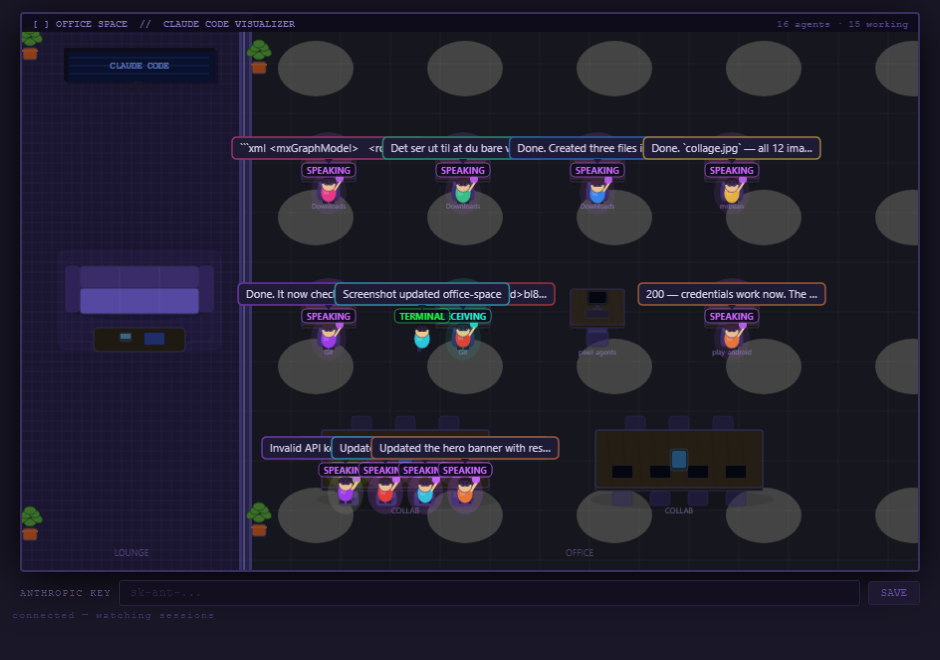
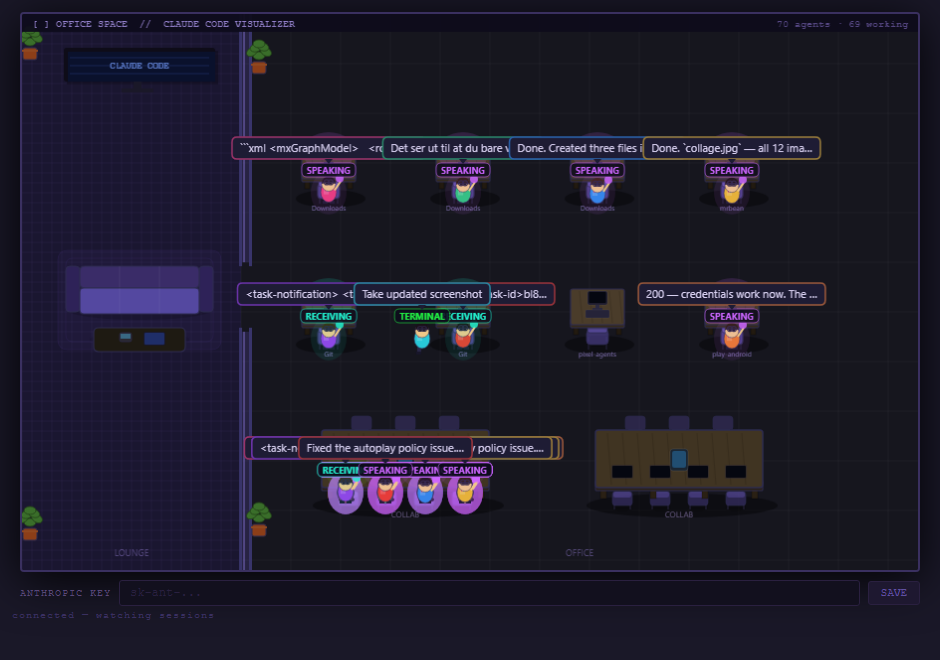
Improve furniture contrast, add legs/shadows, add partition door
- Remove ceiling light halo circles from floor
- Brighter desk/chair/table palette for dark mode contrast
- Proper desk legs with shadows under desk+chair
- Group table with 4 visible legs and chair legs
- Door opening in glass partition at agent crossing point

diff --git a/index.html b/index.html
@@ -62,18 +62,18 @@ ctx.scale(DPR, DPR);
 const CARPET     = '#1a1630';
 const TILE       = '#16161e';
 const PARTITION  = '#38346a';
-const DESK_TOP   = '#28221a';
-const DESK_FACE  = '#1c1810';
-const DESK_LEG   = '#141210';
-const CHAIR_C    = '#32286a';
-const CHAIR_SEAT = '#443880';
+const DESK_TOP   = '#4a3c2a';
+const DESK_FACE  = '#342a1c';
+const DESK_LEG   = '#221a10';
+const CHAIR_C    = '#4a3e88';
+const CHAIR_SEAT = '#6050a8';
 const COUCH_BACK = '#3a2c68';
 const COUCH_SEAT = '#5448a0';
 const COUCH_ARM  = '#2e2258';
 const TV_FRAME   = '#0e0c18';
 const TV_SCR     = '#050710';
-const TBL_TOP    = '#241e14';
-const TBL_FACE   = '#18140c';
+const TBL_TOP    = '#403422';
+const TBL_FACE   = '#2a2014';
 const POT_C      = '#8c3e18';
 const LEAF_G     = '#3a6e2a';
 const LEAF_DK    = '#224018';
@@ -230,21 +230,24 @@ function drawBackground() {
   for (let x=LOUNGE_W; x<W; x+=50) { ctx.beginPath(); ctx.moveTo(x,0); ctx.lineTo(x,H); ctx.stroke(); }
   for (let y=0; y<H; y+=50) { ctx.beginPath(); ctx.moveTo(LOUNGE_W,y); ctx.lineTo(W,y); ctx.stroke(); }
 
-  // Ceiling light halos
-  ctx.fillStyle = 'rgba(255,255,220,0.2)';
-  for (let lx=LOUNGE_W+75; lx<W; lx+=150)
-    for (let ly=55; ly<H; ly+=150) {
-      ctx.beginPath(); ctx.ellipse(lx, ly, 38, 28, 0, 0, Math.PI*2); ctx.fill();
-    }
-
-  // Glass partition
-  ctx.fillStyle = 'rgba(100,80,200,0.22)';
-  ctx.fillRect(LOUNGE_W, 0, 8, H);
-  ctx.fillStyle = 'rgba(160,140,255,0.35)';
-  ctx.fillRect(LOUNGE_W+2, 0, 2, H);
+  // Glass partition with door opening at y=250–320
+  const DOOR_Y=250, DOOR_H=70;
+  // Glass panels (above and below door)
+  [[0, DOOR_Y], [DOOR_Y+DOOR_H, H-(DOOR_Y+DOOR_H)]].forEach(([y, h]) => {
+    ctx.fillStyle = 'rgba(100,80,200,0.22)';
+    ctx.fillRect(LOUNGE_W, y, 8, h);
+    ctx.fillStyle = 'rgba(160,140,255,0.35)';
+    ctx.fillRect(LOUNGE_W+2, y, 2, h);
+    ctx.fillStyle = PARTITION;
+    ctx.fillRect(LOUNGE_W-2, y, 3, h);
+    ctx.fillRect(LOUNGE_W+8, y, 3, h);
+  });
+  // Door frame posts
   ctx.fillStyle = PARTITION;
-  ctx.fillRect(LOUNGE_W-2, 0, 3, H);
-  ctx.fillRect(LOUNGE_W+8, 0, 3, H);
+  ctx.fillRect(LOUNGE_W-2, DOOR_Y-4, 3, 8);
+  ctx.fillRect(LOUNGE_W+8, DOOR_Y-4, 3, 8);
+  ctx.fillRect(LOUNGE_W-2, DOOR_Y+DOOR_H-4, 3, 8);
+  ctx.fillRect(LOUNGE_W+8, DOOR_Y+DOOR_H-4, 3, 8);
 
   // TV on lounge wall — wide, same width as sofa
   const TVX=42, TVY=34, TVW=148, TVH=30;
@@ -345,29 +348,50 @@ function drawDesk(slotIdx, agentsHere) {
   const aCol = agent ? (ACTION_COLORS[agent.action]||ACTION_COLORS.idle) : ACTION_COLORS.idle;
   const active = agent && agent.action !== 'idle' && agent.phase === 'working';
 
-  // Chair (drawn before desk so desk overlaps it slightly)
-  ctx.fillStyle = active ? CHAIR_C : hexRgba(CHAIR_C, 0.55);
-  rr(cx-11, cy+DH/2+6, 22, 16, 4); ctx.fill();
-  ctx.strokeStyle=OUTLINE; ctx.lineWidth=active?1:0.7; rr(cx-11, cy+DH/2+6, 22, 16, 4); ctx.stroke();
-  ctx.fillStyle = active ? CHAIR_SEAT : hexRgba(CHAIR_SEAT,0.55);
-  rr(cx-10, cy+DH/2+2, 20, 6, 2); ctx.fill();
-  ctx.strokeStyle=OUTLINE; ctx.lineWidth=0.8; rr(cx-10, cy+DH/2+2, 20, 6, 2); ctx.stroke();
+  // Desk + chair shadow
+  ctx.fillStyle = 'rgba(0,0,0,0.38)';
+  ctx.beginPath(); ctx.ellipse(cx+2, cy+DH/2+20, DW/2+8, 9, 0, 0, Math.PI*2); ctx.fill();
 
-  // Desk legs
+  // Chair shadow
+  ctx.fillStyle = 'rgba(0,0,0,0.22)';
+  ctx.beginPath(); ctx.ellipse(cx, cy+DH/2+18, 11, 4, 0, 0, Math.PI*2); ctx.fill();
+
+  // Chair legs (4 small pegs)
+  ctx.fillStyle = '#1a1828';
+  [[-9,12],[9,12],[-9,20],[9,20]].forEach(([ox,oy]) => {
+    ctx.fillRect(cx+ox-1, cy+DH/2+oy, 2, 5);
+  });
+
+  // Chair back
+  ctx.fillStyle = active ? CHAIR_C : hexRgba(CHAIR_C, 0.7);
+  rr(cx-11, cy+DH/2+5, 22, 15, 4); ctx.fill();
+  ctx.strokeStyle=OUTLINE; ctx.lineWidth=active?1.2:0.8; rr(cx-11, cy+DH/2+5, 22, 15, 4); ctx.stroke();
+
+  // Chair seat (top strip, lighter)
+  ctx.fillStyle = active ? CHAIR_SEAT : hexRgba(CHAIR_SEAT, 0.7);
+  rr(cx-10, cy+DH/2+1, 20, 7, 2); ctx.fill();
+  ctx.strokeStyle=OUTLINE; ctx.lineWidth=0.8; rr(cx-10, cy+DH/2+1, 20, 7, 2); ctx.stroke();
+
+  // Desk legs (two front legs, visible below face)
+  const legW=5, legH=11;
   ctx.fillStyle = DESK_LEG;
-  ctx.fillRect(cx-DW/2+2, cy+DH/2-2, 4, 8);
-  ctx.fillRect(cx+DW/2-6, cy+DH/2-2, 4, 8);
+  ctx.fillRect(cx-DW/2+3,  cy+DH/2-1, legW, legH);
+  ctx.fillRect(cx+DW/2-8,  cy+DH/2-1, legW, legH);
+  ctx.strokeStyle='rgba(0,0,0,0.5)'; ctx.lineWidth=0.5;
+  ctx.strokeRect(cx-DW/2+3,  cy+DH/2-1, legW, legH);
+  ctx.strokeRect(cx+DW/2-8,  cy+DH/2-1, legW, legH);
 
-  // Desk face
+  // Desk face (front panel, darker wood)
   ctx.fillStyle = DESK_FACE;
-  rr(cx-DW/2, cy+DH/2-5, DW, 8, 1); ctx.fill();
-  ctx.strokeStyle=OUTLINE; ctx.lineWidth=1; rr(cx-DW/2, cy+DH/2-5, DW, 8, 1); ctx.stroke();
+  rr(cx-DW/2, cy+DH/2-6, DW, 9, 1); ctx.fill();
+  ctx.strokeStyle=OUTLINE; ctx.lineWidth=1; rr(cx-DW/2, cy+DH/2-6, DW, 9, 1); ctx.stroke();
 
   // Desk top
   ctx.fillStyle = DESK_TOP;
   rr(cx-DW/2, cy-DH/2, DW, DH, 2); ctx.fill();
   ctx.strokeStyle=OUTLINE; ctx.lineWidth=1.2; rr(cx-DW/2, cy-DH/2, DW, DH, 2); ctx.stroke();
-  ctx.strokeStyle='rgba(0,0,0,0.05)'; ctx.lineWidth=1;
+  // Subtle wood grain
+  ctx.strokeStyle='rgba(0,0,0,0.12)'; ctx.lineWidth=1;
   for (let gx=cx-DW/2+9; gx<cx+DW/2-4; gx+=10) {
     ctx.beginPath(); ctx.moveTo(gx, cy-DH/2+2); ctx.lineTo(gx+3, cy+DH/2-2); ctx.stroke();
   }
@@ -376,7 +400,7 @@ function drawDesk(slotIdx, agentsHere) {
   const mw=20, mh=14;
   ctx.fillStyle='#1e1c2e';
   rr(cx-mw/2, cy-DH/2+2, mw, mh, 2); ctx.fill();
-  ctx.strokeStyle='rgba(0,0,0,0.35)'; ctx.lineWidth=0.8; rr(cx-mw/2, cy-DH/2+2, mw, mh, 2); ctx.stroke();
+  ctx.strokeStyle='rgba(255,255,255,0.08)'; ctx.lineWidth=0.8; rr(cx-mw/2, cy-DH/2+2, mw, mh, 2); ctx.stroke();
   ctx.fillStyle = active ? hexRgba(aCol,0.85) : TV_SCR;
   rr(cx-mw/2+1.5, cy-DH/2+3, mw-3, mh-3, 1); ctx.fill();
   if (active) {
@@ -388,15 +412,15 @@ function drawDesk(slotIdx, agentsHere) {
   ctx.fillRect(cx-5, cy-DH/2+mh+5, 10, 2);
 
   // Keyboard
-  ctx.fillStyle='#1e1c2e';
+  ctx.fillStyle='#252338';
   rr(cx-12, cy+3, 24, 8, 1); ctx.fill();
-  ctx.strokeStyle='rgba(255,255,255,0.08)'; ctx.lineWidth=0.5; rr(cx-12, cy+3, 24, 8, 1); ctx.stroke();
+  ctx.strokeStyle='rgba(255,255,255,0.1)'; ctx.lineWidth=0.5; rr(cx-12, cy+3, 24, 8, 1); ctx.stroke();
 
   // Name tag
   if (agent) {
     ctx.fillStyle='rgba(160,140,220,0.7)';
     ctx.font='7px "Segoe UI"'; ctx.textAlign='center';
-    ctx.fillText(agent.name.slice(0,12), cx, cy+DH/2+30);
+    ctx.fillText(agent.name.slice(0,12), cx, cy+DH/2+32);
   }
 }
 
@@ -407,40 +431,62 @@ function drawGroupTable(slotIdx, agentsHere) {
   const TW=168, TH=58;
   const chairXs = [cx-57, cx-19, cx+19, cx+57];
 
-  // Shadow
-  ctx.fillStyle='rgba(0,0,0,0.1)';
-  ctx.beginPath(); ctx.ellipse(cx+3, cy+TH/2+12, TW/2+8, 10, 0, 0, Math.PI*2); ctx.fill();
+  // Large shadow under whole assembly
+  ctx.fillStyle='rgba(0,0,0,0.4)';
+  ctx.beginPath(); ctx.ellipse(cx+3, cy+TH/2+18, TW/2+12, 12, 0, 0, Math.PI*2); ctx.fill();
 
-  // Chairs top row (empty)
+  // Chair shadows (bottom row)
+  ctx.fillStyle='rgba(0,0,0,0.2)';
+  for (const lx of chairXs) {
+    ctx.beginPath(); ctx.ellipse(lx, cy+TH/2+20, 10, 4, 0, 0, Math.PI*2); ctx.fill();
+  }
+
+  // Chairs top row (empty, faint)
   for (let i=0; i<3; i++) {
     const tx = cx-44+i*44;
-    ctx.fillStyle = hexRgba(CHAIR_C,0.32);
+    ctx.fillStyle = hexRgba(CHAIR_C, 0.4);
     rr(tx-10, cy-TH/2-14, 20, 14, 3); ctx.fill();
-    ctx.strokeStyle=OUTLINE; ctx.lineWidth=0.5; rr(tx-10, cy-TH/2-14, 20, 14, 3); ctx.stroke();
+    ctx.strokeStyle=OUTLINE; ctx.lineWidth=0.6; rr(tx-10, cy-TH/2-14, 20, 14, 3); ctx.stroke();
+    // Chair legs top row
+    ctx.fillStyle = '#1a1828';
+    [[-8,13],[8,13]].forEach(([ox,oy]) => ctx.fillRect(tx+ox-1, cy-TH/2-14+oy, 2, 5));
   }
 
-  // Chairs bottom row
+  // Chairs bottom row with legs
   for (let i=0; i<4; i++) {
+    const lx = chairXs[i];
     const occ = i < agentsHere.length;
-    ctx.fillStyle = occ ? CHAIR_C : hexRgba(CHAIR_C,0.38);
-    rr(chairXs[i]-10, cy+TH/2+4, 20, 14, 3); ctx.fill();
-    ctx.strokeStyle=OUTLINE; ctx.lineWidth=occ?1:0.6; rr(chairXs[i]-10, cy+TH/2+4, 20, 14, 3); ctx.stroke();
-    if (occ) {
-      ctx.fillStyle = CHAIR_SEAT;
-      rr(chairXs[i]-9, cy+TH/2+4, 18, 6, 2); ctx.fill();
-    }
+    // Chair legs
+    ctx.fillStyle = '#1a1828';
+    [[-8,13],[8,13]].forEach(([ox,oy]) => ctx.fillRect(lx+ox-1, cy+TH/2+4+oy, 2, 5));
+    // Chair back
+    ctx.fillStyle = occ ? CHAIR_C : hexRgba(CHAIR_C, 0.5);
+    rr(lx-10, cy+TH/2+4, 20, 14, 3); ctx.fill();
+    ctx.strokeStyle=OUTLINE; ctx.lineWidth=occ?1.1:0.6; rr(lx-10, cy+TH/2+4, 20, 14, 3); ctx.stroke();
+    // Chair seat highlight
+    ctx.fillStyle = occ ? CHAIR_SEAT : hexRgba(CHAIR_SEAT, 0.45);
+    rr(lx-9, cy+TH/2+4, 18, 6, 2); ctx.fill();
   }
 
-  // Table face
+  // Table legs (4 visible below front edge)
+  const tlegH=13, tlegW=6;
   ctx.fillStyle = TBL_FACE;
-  rr(cx-TW/2, cy+TH/2-5, TW, 8, 1); ctx.fill();
-  ctx.strokeStyle=OUTLINE; ctx.lineWidth=1; rr(cx-TW/2, cy+TH/2-5, TW, 8, 1); ctx.stroke();
+  [[cx-TW/2+5], [cx-TW/2+55], [cx+TW/2-61], [cx+TW/2-11]].forEach(([lx]) => {
+    ctx.fillRect(lx, cy+TH/2-2, tlegW, tlegH);
+    ctx.strokeStyle='rgba(0,0,0,0.45)'; ctx.lineWidth=0.5;
+    ctx.strokeRect(lx, cy+TH/2-2, tlegW, tlegH);
+  });
+
+  // Table face (front panel)
+  ctx.fillStyle = TBL_FACE;
+  rr(cx-TW/2, cy+TH/2-7, TW, 10, 1); ctx.fill();
+  ctx.strokeStyle=OUTLINE; ctx.lineWidth=1.1; rr(cx-TW/2, cy+TH/2-7, TW, 10, 1); ctx.stroke();
 
   // Table top
   ctx.fillStyle = TBL_TOP;
   rr(cx-TW/2, cy-TH/2, TW, TH, 3); ctx.fill();
   ctx.strokeStyle=OUTLINE; ctx.lineWidth=1.5; rr(cx-TW/2, cy-TH/2, TW, TH, 3); ctx.stroke();
-  ctx.strokeStyle='rgba(0,0,0,0.04)'; ctx.lineWidth=1;
+  ctx.strokeStyle='rgba(0,0,0,0.12)'; ctx.lineWidth=1;
   for (let gx=cx-TW/2+12; gx<cx+TW/2-6; gx+=15) {
     ctx.beginPath(); ctx.moveTo(gx, cy-TH/2+3); ctx.lineTo(gx+4, cy+TH/2-3); ctx.stroke();
   }
@@ -451,7 +497,7 @@ function drawGroupTable(slotIdx, agentsHere) {
     const a = agentsHere[i];
     const aCol = a ? (ACTION_COLORS[a.action]||ACTION_COLORS.idle) : null;
     const on = a && a.action !== 'idle' && a.phase === 'working';
-    ctx.fillStyle = a ? '#1e1c2e' : hexRgba('#1e1c2e',0.4);
+    ctx.fillStyle = a ? '#252338' : hexRgba('#252338', 0.4);
     rr(lx-11, cy+6, 22, 14, 2); ctx.fill();
     ctx.fillStyle = on ? hexRgba(aCol,0.82) : TV_SCR;
     rr(lx-10, cy+7, 20, 12, 1); ctx.fill();
@@ -461,17 +507,17 @@ function drawGroupTable(slotIdx, agentsHere) {
     }
   }
 
-  // Water jug / plant in center
+  // Water jug in center
   ctx.fillStyle='#1a2430';
   rr(cx-9, cy-10, 18, 22, 3); ctx.fill();
-  ctx.strokeStyle='rgba(255,255,255,0.1)'; ctx.lineWidth=0.8; rr(cx-9, cy-10, 18, 22, 3); ctx.stroke();
+  ctx.strokeStyle='rgba(255,255,255,0.12)'; ctx.lineWidth=0.8; rr(cx-9, cy-10, 18, 22, 3); ctx.stroke();
   ctx.fillStyle='rgba(40,120,180,0.5)';
   rr(cx-7, cy-8, 14, 17, 2); ctx.fill();
 
   // Label
   ctx.fillStyle='rgba(160,140,200,0.6)';
   ctx.font='8px "Segoe UI"'; ctx.textAlign='center';
-  ctx.fillText('COLLAB', cx, cy+TH/2+26);
+  ctx.fillText('COLLAB', cx, cy+TH/2+30);
 }
 
 // ─── WORKER ───────────────────────────────────────────────────────────────────
